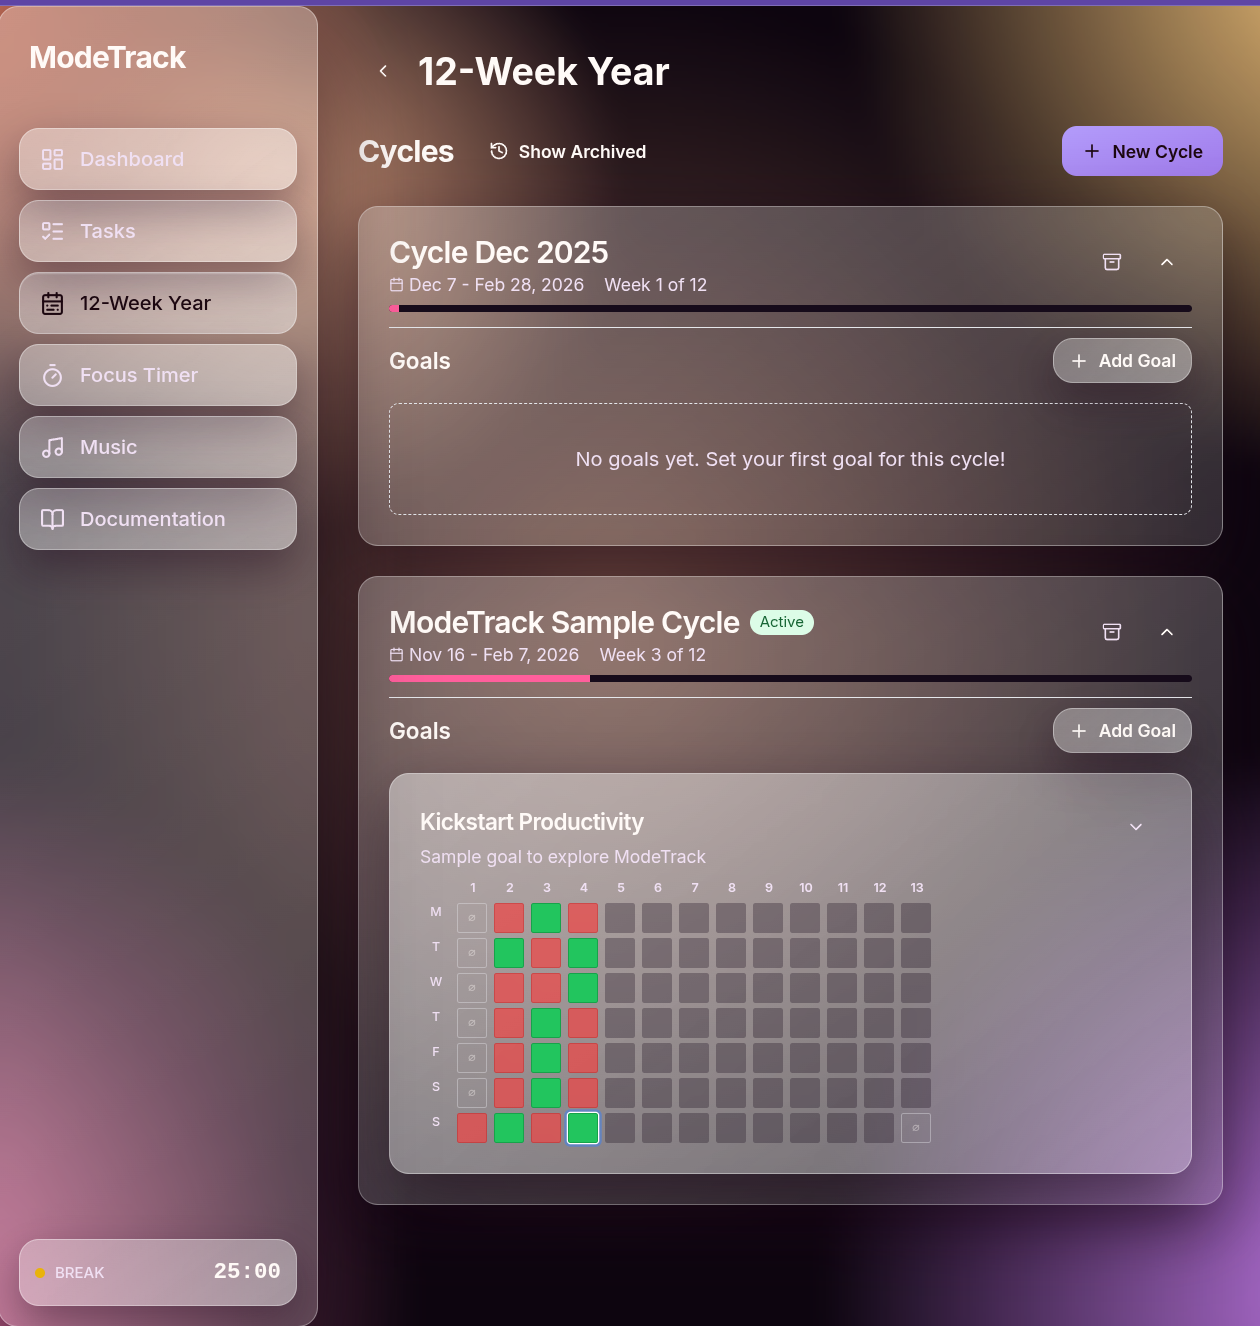
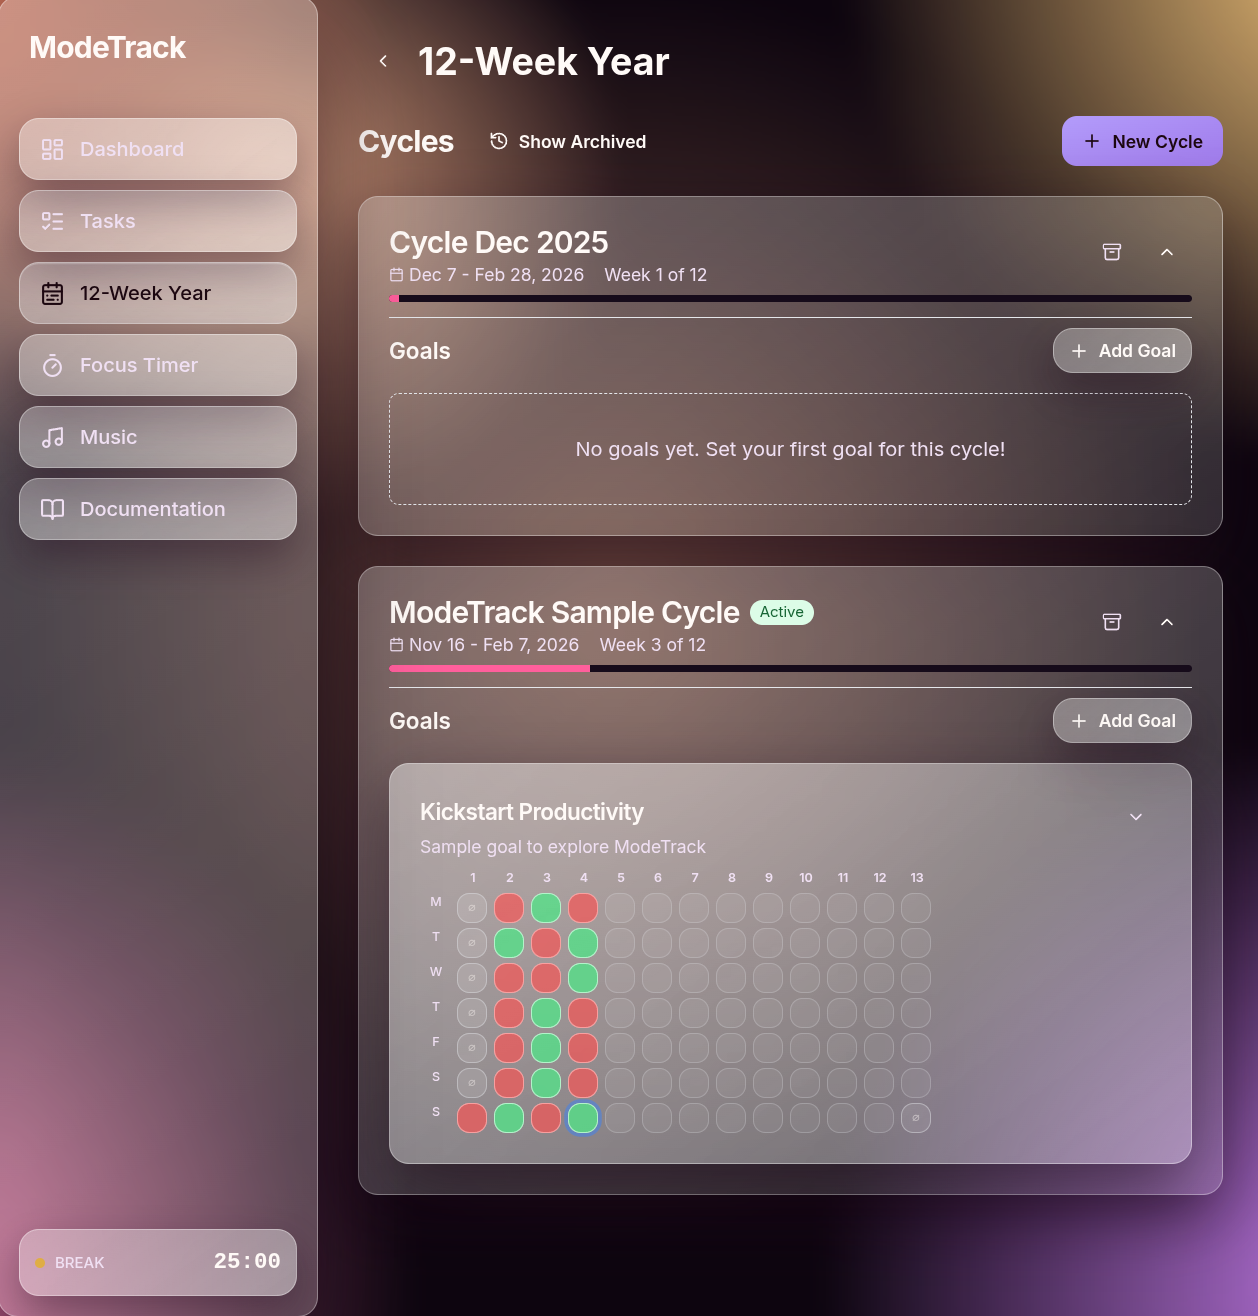
Update colors for 12 week year

diff --git a/packages/frontend/components/cycles/progress-heatmap.tsx b/packages/frontend/components/cycles/progress-heatmap.tsx
@@ -10,6 +10,10 @@ interface ProgressHeatmapProps {
 
 export function ProgressHeatmap({ data, onToggleDay }: ProgressHeatmapProps) {
   const today = startOfDay(new Date());
+  const cellBase =
+    "h-6 w-6 rounded-[10px] border border-white/18 bg-white/12 backdrop-blur-md shadow-[var(--shadow-soft)] transition-all duration-200 focus-visible:outline-none focus-visible:ring-2 focus-visible:ring-ring focus-visible:ring-offset-1 focus-visible:ring-offset-transparent";
+  const placeholderCell =
+    "opacity-50 cursor-not-allowed pointer-events-none select-none border-white/12 bg-white/8";
 
   // Align heatmap so the first day of the cycle sits under its weekday column.
   const firstDate = data[0] ? startOfDay(new Date(data[0].date)) : null;
@@ -68,7 +72,7 @@ export function ProgressHeatmap({ data, onToggleDay }: ProgressHeatmapProps) {
               return (
                 <div
                   key={`${entry.key}-${wIdx}`}
-                  className="h-6 w-6 rounded-sm border border-border/30 bg-foreground/5 opacity-40 cursor-not-allowed relative pointer-events-none select-none focus:outline-none focus:ring-0"
+                  className={cn(cellBase, placeholderCell, "relative")}
                   tabIndex={-1}
                   role="presentation"
                 >
@@ -84,7 +88,7 @@ export function ProgressHeatmap({ data, onToggleDay }: ProgressHeatmapProps) {
               return (
                 <div
                   key={`${entry.key}-${wIdx}`}
-                  className="h-6 w-6 rounded-sm border border-border/30 bg-foreground/5 opacity-40 cursor-not-allowed relative pointer-events-none select-none focus:outline-none focus:ring-0"
+                  className={cn(cellBase, placeholderCell, "relative")}
                   tabIndex={-1}
                   role="presentation"
                 />
@@ -106,12 +110,17 @@ export function ProgressHeatmap({ data, onToggleDay }: ProgressHeatmapProps) {
                 aria-disabled={isFuture}
                 title={`${format(dateObj, "MMM d, yyyy")}: ${day.completed ? "Completed" : "Incomplete"}`}
                 className={cn(
-                  "h-6 w-6 rounded-sm border transition-all",
-                  day.completed && "bg-green-500 border-green-600 hover:bg-green-600",
-                  !day.completed && isPast && "bg-red-500 border-red-600 hover:bg-red-600 opacity-70",
-                  !day.completed && !isPast && "bg-secondary border-transparent hover:border-border",
-                  isToday && "ring-2 ring-ring ring-offset-1",
-                  isFuture && "opacity-30 cursor-not-allowed hover:bg-secondary"
+                  cellBase,
+                  day.completed &&
+                    "bg-green-400/75 border-green-200/90 text-foreground shadow-[var(--shadow-raised)] hover:bg-green-400/90 hover:border-green-100",
+                  !day.completed &&
+                    isPast &&
+                    "bg-red-500/65 border-red-300/90 text-foreground shadow-[var(--shadow-raised)] hover:bg-red-500/80",
+                  !day.completed &&
+                    !isPast &&
+                    "bg-white/14 border-white/26 hover:bg-white/22 hover:border-white/34",
+                  isToday && "ring-2 ring-ring ring-offset-1 ring-offset-transparent",
+                  isFuture && "opacity-30 cursor-not-allowed hover:bg-white/12 hover:border-white/18"
                 )}
               />
             );
